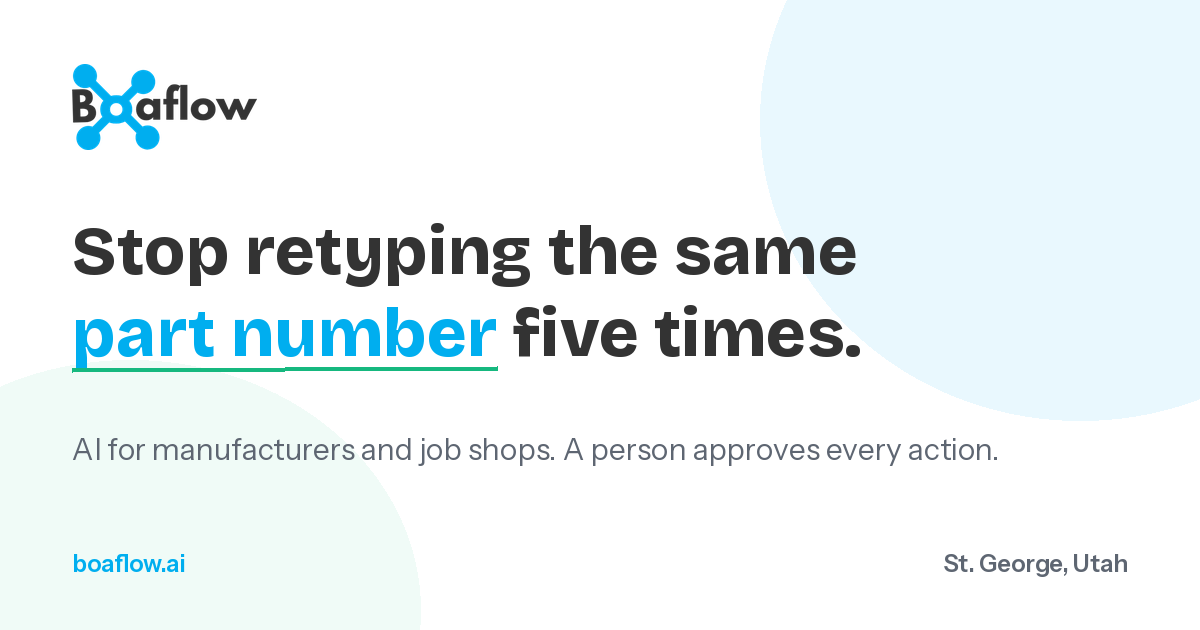
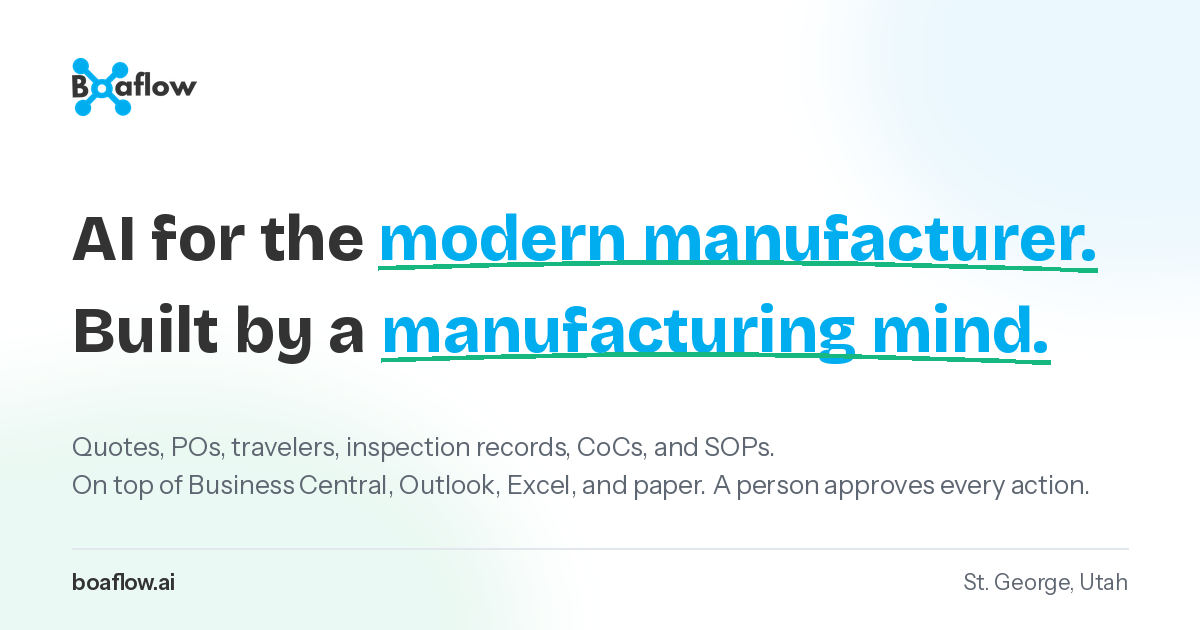
Update the homepage hero to the manufacturing-mind headline.
Sawyer's line replaces the part-number H1. The shop-floor subhead still names the documents and the tools the work runs on, and the eyebrow and founder section no longer repeat "built by."

diff --git a/index.html b/index.html
@@ -12,15 +12,15 @@
 <meta name="theme-color" content="#00AEEF">
 <meta property="og:type" content="website">
 <meta property="og:site_name" content="Boaflow">
-<meta property="og:title" content="Stop retyping the same part number five times.">
+<meta property="og:title" content="AI for the modern manufacturer. Built by a manufacturing mind.">
 <meta property="og:description" content="AI for manufacturers and job shops. Quotes, POs, travelers, inspection records, and CoCs, drafted on top of the tools you already run. A person approves every action.">
 <meta property="og:url" content="https://boaflow.ai/">
 <meta property="og:image" content="https://boaflow.ai/og.png">
 <meta property="og:image:width" content="1200">
 <meta property="og:image:height" content="630">
-<meta property="og:image:alt" content="Boaflow. Stop retyping the same part number five times. AI for manufacturers.">
+<meta property="og:image:alt" content="Boaflow. AI for the modern manufacturer. Built by a manufacturing mind.">
 <meta name="twitter:card" content="summary_large_image">
-<meta name="twitter:title" content="Stop retyping the same part number five times.">
+<meta name="twitter:title" content="AI for the modern manufacturer. Built by a manufacturing mind.">
 <meta name="twitter:description" content="AI for manufacturers and job shops. A person approves every action. Free 30-minute fit call.">
 <meta name="twitter:image" content="https://boaflow.ai/og.png">
 <link rel="preconnect" href="https://fonts.googleapis.com">
@@ -130,8 +130,11 @@ nav{position:sticky;top:0;z-index:50;background:rgba(255,255,255,.9);backdrop-fi
   radial-gradient(circle at 85% 10%,rgba(0,174,239,.08),transparent 45%),
   radial-gradient(circle at 5% 90%,rgba(22,184,127,.06),transparent 40%)}
 .hero-grid{display:grid;grid-template-columns:1.05fr .95fr;gap:56px;align-items:center}
-.hero h1{font-size:clamp(38px,5vw,62px);font-weight:800;margin:22px 0 20px;color:var(--charcoal)}
+.hero h1{font-size:clamp(23px,3.7vw,46px);font-weight:800;margin:22px 0 20px;color:var(--charcoal);line-height:1.16}
+.hero h1 .line{display:block;padding-bottom:8px}
+.hero h1 .line:last-child{padding-bottom:2px}
 .hero h1 em{font-style:normal;color:var(--blue);position:relative;white-space:nowrap}
+@media(max-width:340px){.hero h1 em{white-space:normal}.hero h1 em svg{display:none}}
 .hero h1 em svg{position:absolute;left:0;bottom:-8px;width:100%;height:12px;overflow:visible}
 .hero h1 em svg path{stroke:var(--signal);stroke-width:3.5;fill:none;stroke-linecap:round;stroke-dasharray:400;stroke-dashoffset:400;animation:draw 1.2s .5s ease forwards}
 @keyframes draw{to{stroke-dashoffset:0}}
@@ -362,10 +365,10 @@ a.mail:hover{color:var(--blue-deep)}
 <header class="hero" id="top">
   <div class="wrap hero-grid">
     <div>
-      <div class="hero-badge">AI for manufacturers</div>
-      <h1 style="margin-top:26px">Stop retyping the same <em>part number<svg viewBox="0 0 300 12" preserveAspectRatio="none" aria-hidden="true"><path d="M2 9 C 60 2, 150 12, 298 5"/></svg></em> five times.</h1>
-      <p class="lede">Boaflow builds AI into the tools your shop already runs, so quotes, POs, travelers, inspection records, and CoCs get drafted from the order you already entered. Your people get the hours back. A person approves everything before it goes out.</p>
-      <p class="cred">Built by Sawyer Heaton in St. George, Utah, after an Engineering Technology degree and quality assurance work at a medical device manufacturer.</p>
+      <div class="hero-badge">From the shop floor</div>
+      <h1 style="margin-top:26px"><span class="line">AI for the <em>modern manufacturer.<svg viewBox="0 0 300 12" preserveAspectRatio="none" aria-hidden="true"><path d="M2 9 C 60 2, 150 12, 298 5"/></svg></em></span><span class="line">Built by a <em>manufacturing mind.<svg viewBox="0 0 300 12" preserveAspectRatio="none" aria-hidden="true"><path d="M2 9 C 60 2, 150 12, 298 5"/></svg></em></span></h1>
+      <p class="lede">Boaflow runs on top of Business Central, Outlook, Excel, and paper, so quotes, POs, travelers, inspection records, CoCs, and SOPs get drafted from the work already on the floor. Your people get the hours back. A person approves everything before it goes out.</p>
+      <p class="cred">Sawyer Heaton, St. George, Utah. An Engineering Technology degree, and quality assurance work at a medical device manufacturer.</p>
       <div class="hero-ctas">
         <a class="btn btn-big" href="https://calendar.app.google/vn369DieRsAXJTx46" target="_blank" rel="noopener">Book a Free 30-Minute Fit Call →</a>
         <a class="btn btn-ghost" href="#sops">See SOP creation</a>
@@ -741,7 +744,7 @@ a.mail:hover{color:var(--blue-deep)}
   <div class="wrap founder-grid">
     <div class="reveal">
       <div class="eyebrow">The founder</div>
-      <h2 style="font-size:clamp(30px,3.6vw,44px);margin:18px 0 16px;color:var(--charcoal)">Built by someone who's done the paperwork.</h2>
+      <h2 style="font-size:clamp(30px,3.6vw,44px);margin:18px 0 16px;color:var(--charcoal)">Someone who's done the paperwork.</h2>
       <p style="color:var(--slate);font-size:18px">Sawyer has done this paperwork by hand.</p>
     </div>
     <div class="founder-card reveal">

diff --git a/sops.html b/sops.html
@@ -18,7 +18,7 @@
 <meta property="og:image" content="https://boaflow.ai/og.png">
 <meta property="og:image:width" content="1200">
 <meta property="og:image:height" content="630">
-<meta property="og:image:alt" content="Boaflow. Stop retyping the same part number five times. AI for manufacturers.">
+<meta property="og:image:alt" content="Boaflow. AI for the modern manufacturer. Built by a manufacturing mind.">
 <meta name="twitter:card" content="summary_large_image">
 <meta name="twitter:title" content="Turn “just ask Dave” into a written SOP.">
 <meta name="twitter:description" content="SOP creation for manufacturers. A person approves every revision. Free 30-minute fit call.">
@@ -353,7 +353,7 @@ a.mail:hover{color:var(--blue-deep)}
       <div class="hero-badge">SOP creation</div>
       <h1 style="margin-top:26px">Turn "just ask Dave" into a <em>written SOP.<svg viewBox="0 0 300 12" preserveAspectRatio="none" aria-hidden="true"><path d="M2 9 C 60 2, 150 12, 298 5"/></svg></em></h1>
       <p class="lede">The scariest day in a small shop is when the person who knows the job retires, and the process was never written down. Boaflow drafts the SOP or work instruction. Your team approves it. New hires train on the current revision.</p>
-      <p class="cred">For job shops, medical device, aerospace, fabrication, and co-packers. Built by Sawyer Heaton, who did this paperwork in quality assurance at a medical device manufacturer.</p>
+      <p class="cred">For job shops, medical device, aerospace, fabrication, and co-packers. Sawyer Heaton did this paperwork in quality assurance at a medical device manufacturer.</p>
       <div class="hero-ctas">
         <a class="btn btn-big" href="https://calendar.app.google/vn369DieRsAXJTx46" target="_blank" rel="noopener">Book a Free 30-Minute Fit Call →</a>
         <a class="btn btn-ghost" href="/#services">See the rest of the shop work</a>
